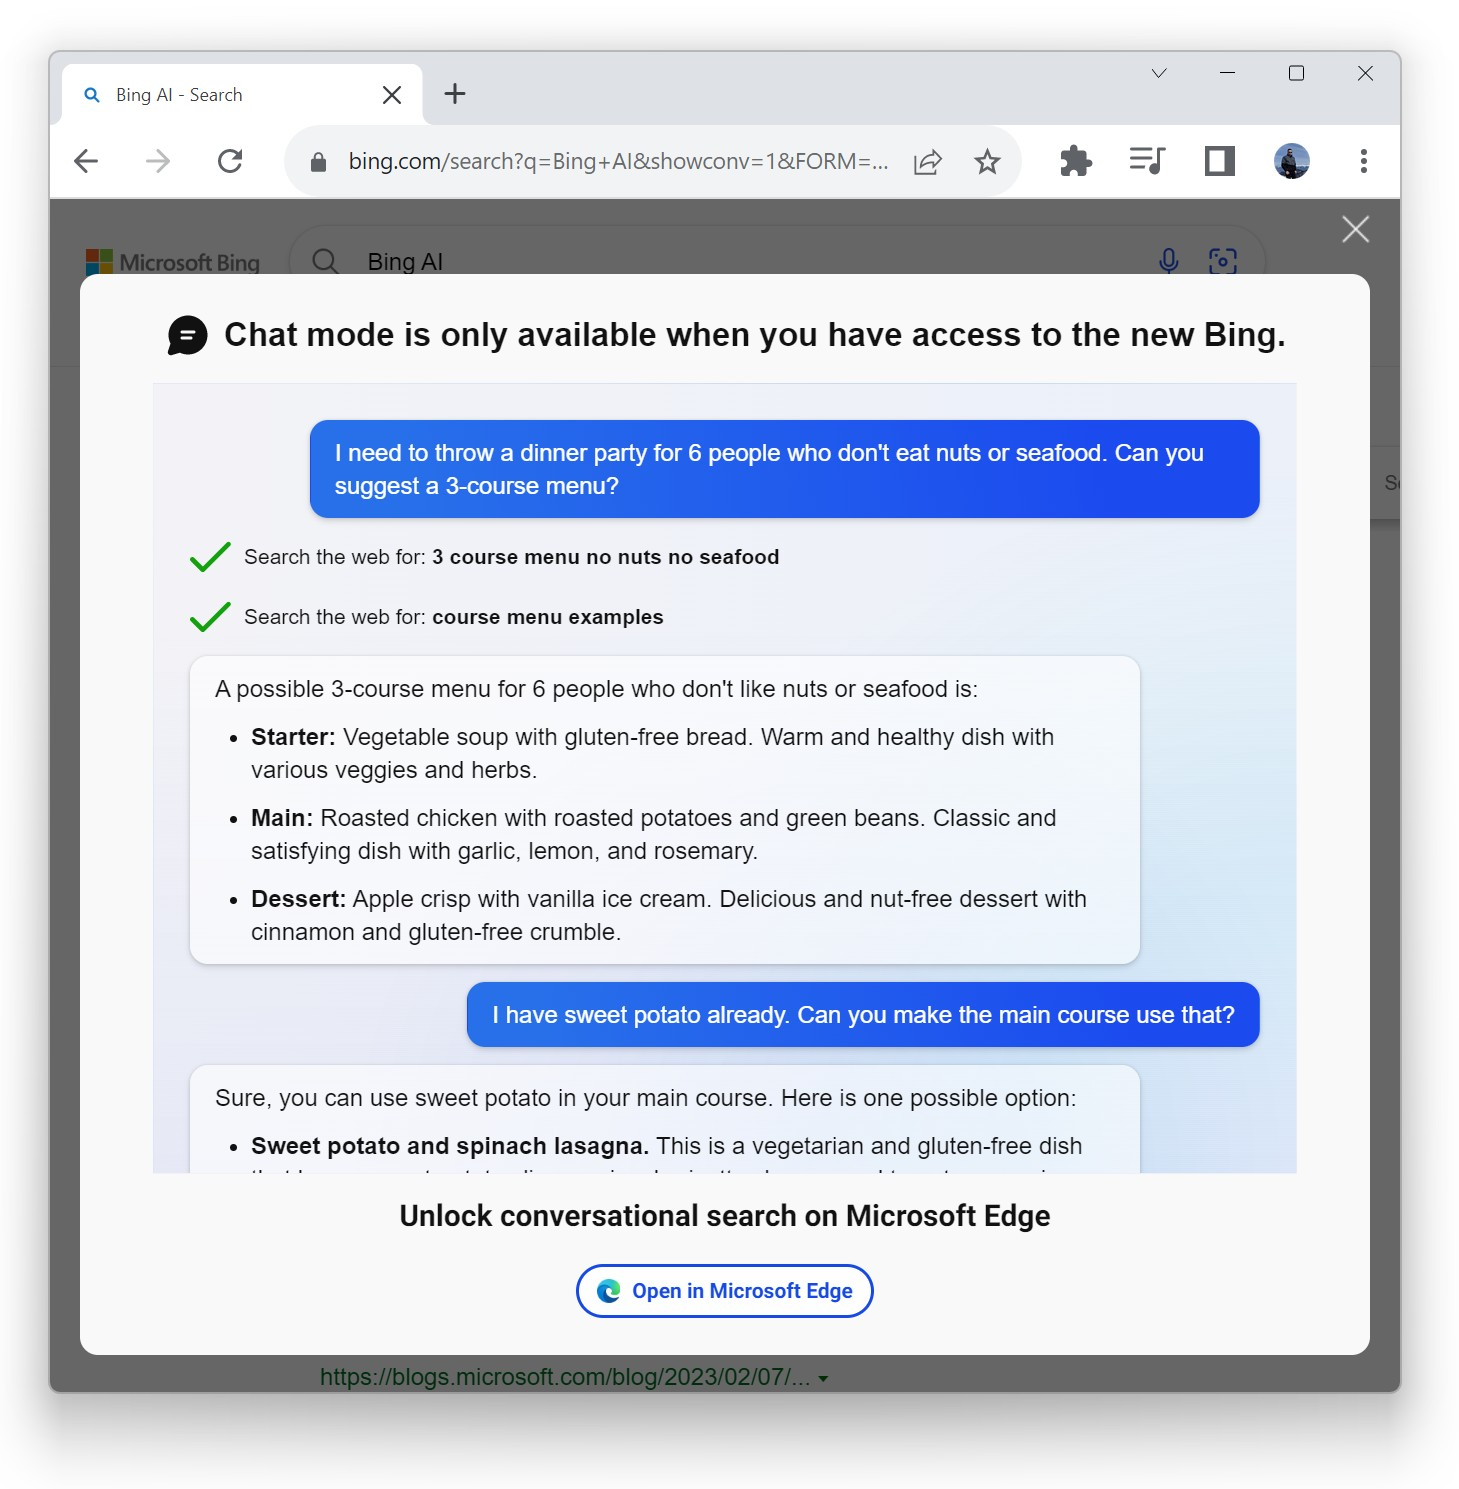
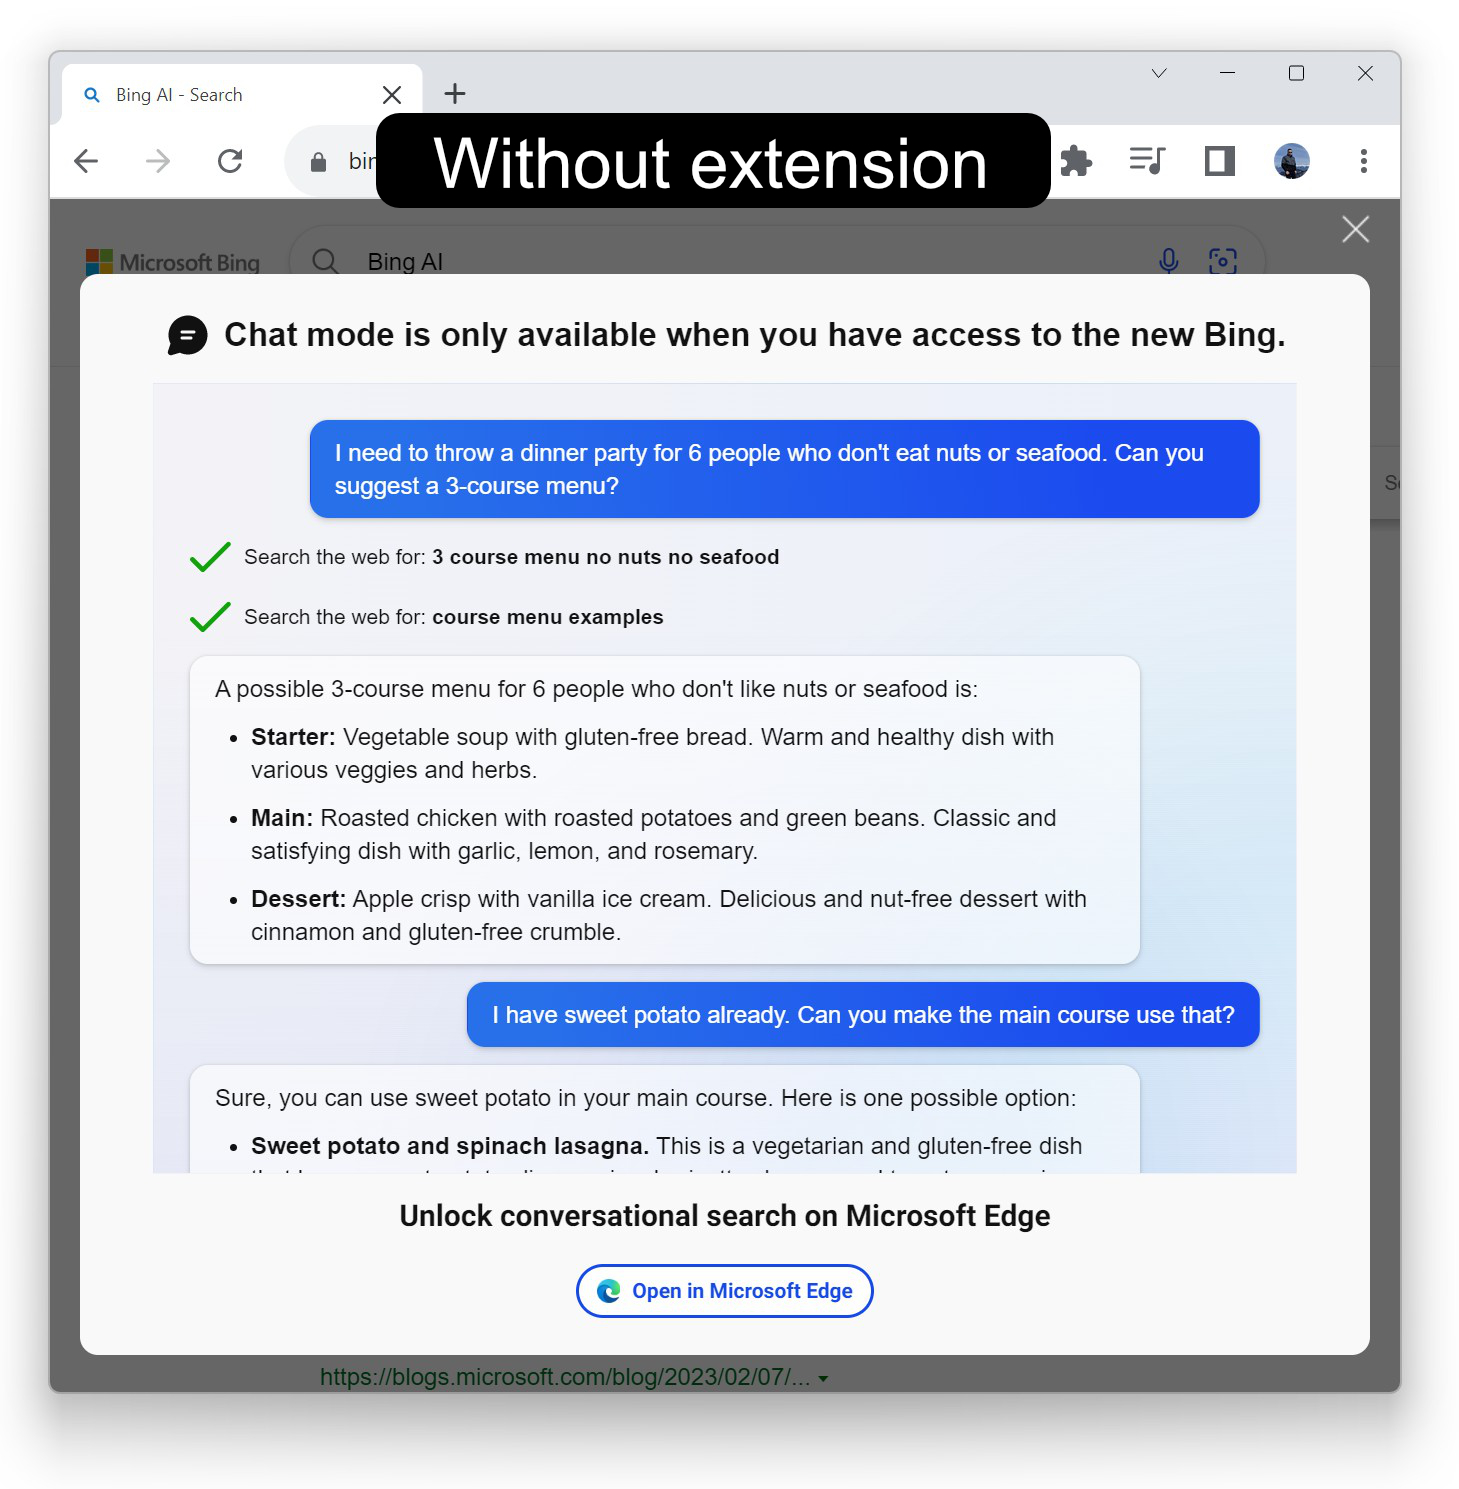
Screenshots

Changed region(s): [[0.2467, 0.0618, 0.7402, 0.1545]]

diff --git a/readme.md b/readme.md
@@ -2,4 +2,10 @@
 
 This extension allows using Bing AI chatbot with Google Chrome and other Chromium browsers.
 
+## With extension
+
 ![Screenshot](screenshot.jpg)
+
+## Without extension
+
+![Screenshot](screenshot-without.jpg)
